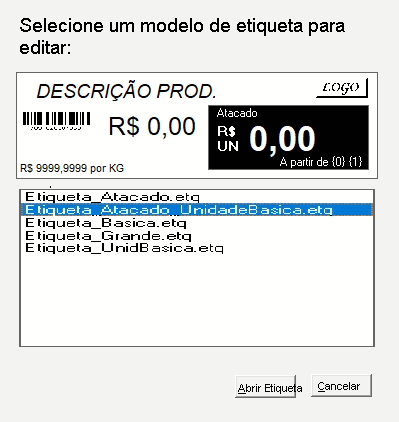
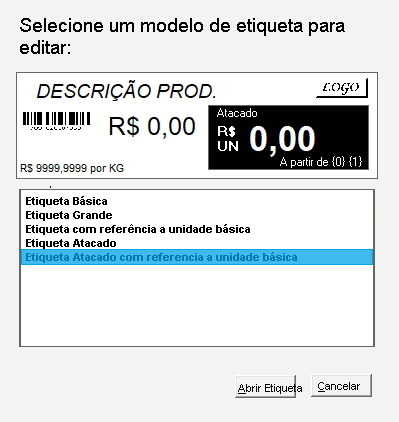
Análise finalizada da parte 1 da centra de impressão + protótipo abrir etiquetas

Changed region(s): [[0.0301, 0.4621, 0.9323, 0.6469]]

diff --git a/AnaliseDescontosAtacadoParte2.md b/AnaliseDescontosAtacadoParte2.md
@@ -33,7 +33,7 @@ A etiqueta que está sendo utilizada deve ficar com a fonte em vermelho e em neg
 
 ## Tarefa 5: Excluir etiquetas
 
-1. Excluir o cmdDeletar do FrmImpressao.
+1. Substituir o cmdDeletar do FrmImpressao from um cmdSalvarComo, manter o tabindex. Remover o código de exclusão. Esse botão será implementado mais adiante.
 
 1. Colocar um ícone com um "x" do lado direito do list. Se o usuário clicar no item mostrar a mensagem abaixo, retirar do list e excluir do banco.
 
@@ -69,54 +69,156 @@ A etiqueta será excluída. A ação não poderá ser desfeita. Deseja continuar
 
 ## Tarefa 8: Criar o botão salvar como...
 
-1. No local onde tínhamos o botão Deletar, criar o botão `cmdSalvarComo` com o Text `S&alvar como...`
+1. No local onde tínhamos o botão Deletar, implementar o botão `cmdSalvarComo` com o Text `S&alvar como...`
 
-2. Implementar o botão, para quando o usuário clicar nele chamar a tela de input box da telecon com o texto abaixo, adicionar ele no list view e salvar o novo arquivo no banco de dados.
+1. Implementar o botão, para quando o usuário clicar nele chamar a tela de input box com o texto abaixo, adicionar ele no list view e salvar o novo arquivo no banco de dados.
 
-    `Insira um nome para a nova etiqueta:`
-
-3. colocar o tabindex = 91
-
-4. Colocar o Tooltip = "Salve a etiqueta atual com um novo nome"
+    `Informe uma nova descrição para a etiqueta:`
+1. validar uma descrição válida até 50 caracté
+1. Colocar o Tooltip = "Salve a etiqueta atual com um novo nome"
 
 
 ## Tarefa 9: Criar o botão Novo (validar etiquetas)
 
 1. Substituir o botão `cmdCarregar` pelo `cmdNovo` com caption `&Novo` manter o mesmo tabindex
 
-1.  Ao clicar no botão exibir um input box da telecon com o texto abaixo, validar uma descrição válida
-    `Insira um nome para a nova etiqueta:`
+1. Tooltiptext = `Crie uma nova etiqueta a partir de modelos pré definidos.`
 
-1. Criar um form frmAbrirEtiquetas colocar um list com uma imagem e abaixo listar algumas etiquetas padrões, algo semelhante com a imagem abaixo
-    * No novo form manter as configurações padrões da Telecon, fechar com esc, enter como tab, ícone na janela, abrir com vbmodal, não deve ter os botões de minimizar e maximizar, o fechar cancela a operação, não deve permitir resize na tela, deve abrir centralizado. 
-    * Abaixo colocar 2 botões (&Abrir e &Cancelar)
-    * Na imagem colocar um print da imagem para cada arquivo
-    * Listar nesse formato
-    ```
-        Etiqueta Básica
-        Etiqueta Grande
-        Etiqueta com referência a unidade básica 
-        Etiqueta Atacado
-        Etiqueta Atacado com referencia a unidade básica
-    ```
-    * Criar um procedimento para cada etiqueta retornando uma string
-    * Abaixo o link para as etiquetas, testar com a argox da telecon, se necessário ajustar os objetos 
-    * após abrir salvar no banco de dados com o nome definido pelo usuário
-    [Link para as etiquetas](https://github.com/Rodrigo80221/MARKDOWN/tree/main/Download/Etiquetas)
+1.  Ao clicar no botão exibir um input box com o texto abaixo
+    `Insira um nome para a nova etiqueta:`
+1. validar uma descrição válida até 50 caractéres
+
+1. Criar um form frmAbrirEtiquetas colocar um list com uma imagem e abaixo listar algumas etiquetas padrões em um listview, algo semelhante com a imagem abaixo
     ![](https://github.com/Rodrigo80221/MARKDOWN/blob/main/Imagens/SelecaoEtiqueta.png?raw=true)
+
+    * No novo form manter as configurações padrões da Telecon, fechar com esc, enter como tab, ícone na janela, abrir com vbmodal, não deve ter os botões de minimizar e maximizar, o fechar cancela a operação, não deve permitir resize na tela, deve abrir centralizado. 
+    * Abaixo colocar 2 botões (&Abrir Etiqueta e &Cancelar), ajustar o tabindex
+    * Na imagem colocar uma foto da imagem para cada arquivo
+    [Link para as etiquetas](https://github.com/Rodrigo80221/MARKDOWN/tree/main/Download/Etiquetas)
+    * Criar um procedimento para cada uma destas etiquetas retornando uma string
+    * Abaixo o link para as etiquetas, testar com a argox da telecon, se necessário ajustar os objetos. Testar com valores até 999,00 para ver se não corta
+    * após abrir uma etiqueta de modelo salvar no banco de dados com o nome definido pelo usuário
+    * Não coloquei as imagens das etiquetas porque ainda podem sofrer alterações.
 
 
 ## Tarefa 10: Teste de integração
 1. Ajustar algum código antigo que possa ter ficado para trás
-1. Testar as opções criadas e a integração com o banco de dados, criar novo, salvar como, deletar, salvar. Criar e selecionar diversas etiquetas e imprimir verificando o comportamento da tela. 
+1. Testar as opções criadas e a integração com o banco de dados, novo, salvar como, deletar e salvar. Criar e selecionar diversas etiquetas e imprimir verificando o comportamento da tela. 
 1. Ajustar possíves erros. 
  
 
 
 
+criar classe de packs virtuais 
+colocar uma propriedade para saber se é pack ou modelo de desconto
+nas telas listas de acordo com essa propriedade
+
+alterar nomenclaturas
+
+criar desconto para atacado para os associados 
+
+colocar associação da etiqueta na tela de desconto para atacado
+
+Colocar pack virtual ou desconto para atacado no cadastro de produtos 
+
+Arrumar help dos packs mais novos para ajudar o usuário
+Verificar a coluna Pack nos grids e o pack nas mensagens
+Sigan > frmBusca > coluna grid  (Pack/Atacado)
+Importa cupom fiscal > coluna grid
+FrmImpressão > Coluna grid (na etiqueta e no cartaz) no cartaz está cortando a descrição
+Encarte > 2 mensagens 
 
 
   
+
+
+
+## --------------------------------------------
+
+### Leve x pague y > Leve 3 pague 2
+
+```
+Exemplo de promoção:
+Compre 12 unidades do refrigerante XXX e pague apenas 10 unidades.
+```
+### Pague 1 centavo ou mais em outro produto > Leve 3 e ganhe outro produto diferente
+
+```
+Exemplo de promoção:
+Compre 2 unidades da Pizza XXX e pague 1 centavo ou mais em um bombom da marca YYY.
+Observação: O valor de 1 centavo pode ser trocado por outro valor.
+```
+### Pague menos a partir de x unidades (atacado) > A partir de 6 pague menos R$
+
+```
+Exemplo de promoção:
+Compre mais de 100 latas de Refri Lata da marca XXX e pague 1 real em cada unidade.
+```
+### Pague menos por unidade > Leve 6 pague menos em cada unid.
+
+```
+Exemplo de promoção:
+Compre 12 caixas de leite da marca XXX e pague R$ 1,00 cada caixa.
+Observação: A 13ª caixa de leite custará o preço original.
+```
+
+### Pague 1 centavo ou mais no próximo produto > Leve 3 e ganhe 1
+
+```
+Exemplo de promoção:
+Compre 5 biscoitos da marca XXX e pague 1 centavo ou mais no próximo.
+```
+### Leve x e Receba desconto percentual > Leve 3 e ganhe desconto em outro produto diferente R$
+
+```
+Exemplo de promoção:
+Compre 2 unidades da Pizza XXX e ganhe 10% de desconto na compra de um refrigerante da marca HHH.
+
+Exemplo para dar desconto no mesmo produto.
+Exemplo de promoção: Compre o produto XXX e receba 10% de desconto
+Passos: 
+1)Insira 0,1 na quantidade e informe o desconto percentual.
+2)Insira o mesmo produto nas duas grades.
+```
+### Leve x e Receba desconto por unidade > Leve 3 e ganhe desconto em outro produto diferente R$
+
+```
+Exemplo de promoção:
+Compre 5 unidades da Pizza XXX e ganhe R$ 0,10 de desconto em cada.
+Observação: A 6ª unidade  não entra na promoção, apenas quando fechar 10 unidades.
+```
+### Pague x porcento a menos a partir de x unidades (atacado) > A partir de 6 pague menos %
+
+```
+Exemplo de promoção:
+Compre mais de 100 unidades de Refri Lata da marca XXX e receba 10% de desconto em cada unidade.
+```
+### Leve RS x e receba desconto por unidade no produto x >  Nas compras acima de RS50,00 ganhe desconto nestes produtos R$
+
+```
+Exemplo de promoção:
+Compre R$ 50,00 em produtos de fora deste pack e ganhe R$ 2,00 de desconto no produto x.
+```
+### Leve RS x e receba desconto percentual no produto x > Nas compras acima de RS50,00 ganhe desconto nestes produtos %
+
+```
+Exemplo de promoção:
+Compre R$ 50,00 em produtos de fora deste pack e ganhe 10 % de desconto no produto x.
+```
+### Pague x por cento a menos por unidade > Leve 6 pague menos em cada unid. (%)
+
+
+
+
+
+
+
+
+
+
+
+
+
 
 
 
